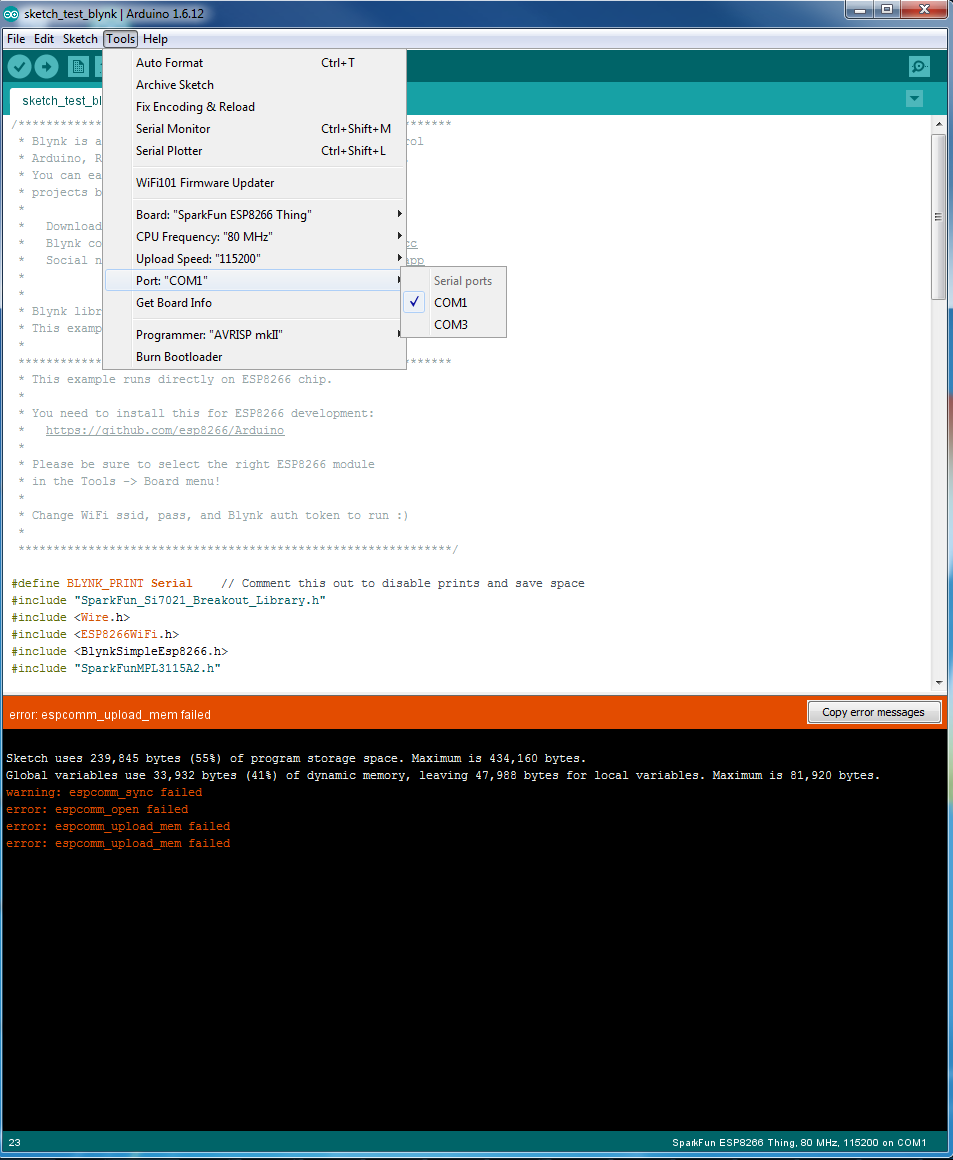
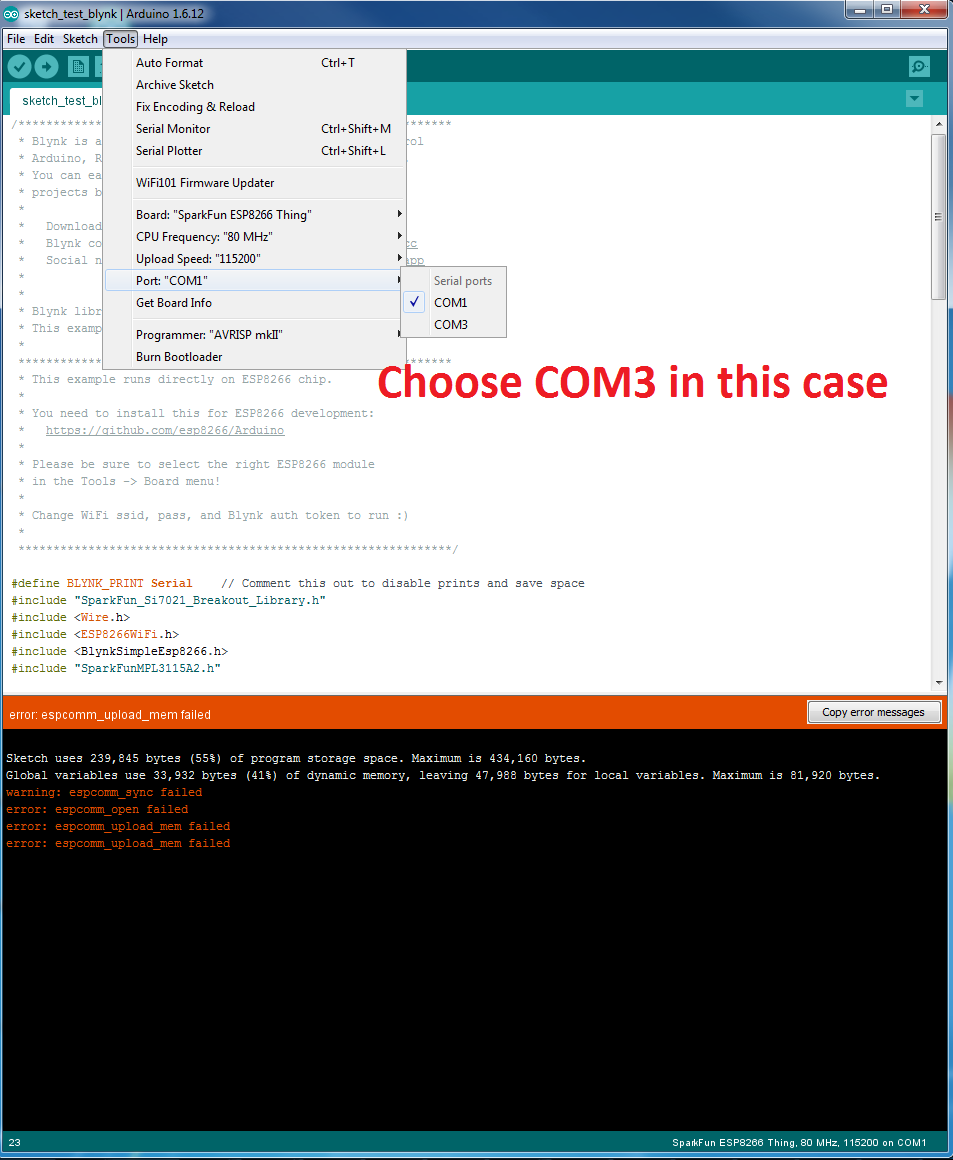
working on iot tutorial

Changed region(s): [[0.3956, 0.3103, 0.9433, 0.3414]]

diff --git a/_pages/teaching/apd_index.html b/_pages/teaching/apd_index.html
@@ -27,7 +27,7 @@ category: course_productdesign
 <b>Tutorials</b><br>
     {% for post in site.posts %}
     {% if post.categories contains 'productdesign_tutorial' %}
-    * {{ post.title }} (<a href="{{ site.url}}/_teaching{{ post.link }}">pdf</a>)<br>
+    * <a href="{{ post.url }}">{{ post.title }}</a><br>
     {% endif %}
     {% endfor %}
 <br>

diff --git a/_posts/teaching/productdesign/2016-11-19-sparkfunthing_tutorial.md b/_posts/teaching/productdesign/2016-11-19-sparkfunthing_tutorial.md
@@ -1,67 +1,90 @@
 ---
 categories: productdesign_tutorial
 layout: apd_default
-title:  Internet of Things Hookup Guideline 1: ESP8266 Thing + Blynk for Dummies 
+title:  Hookup Guideline for ESP8266 Thing and Blynk
 ---
+# Hookup Guideline for ESP8266 Thing and Blynk
 
-* Introduction
-This is a tutorial for people (like me) who have no experience at all at IoT. We will skip a lot 
-of the technical details and focus on moving you from "What is IoT?" to "Oh that's neat!". 
-This tutorial mostly follow the official one [ESP8266 Thing Hookup Guide], but tries to explain 
-a few things skipped.
+## Introduction
 
-* Item list
+This is a tutorial for people (like me) who have no IoT experience **at all**. We will skip a lot 
+of the technical details and focus on moving you from "**Really I can do this?**" to "**Oh that's neat!**". 
+This tutorial mostly follow the official [ESP8266 Thing Hookup Guide][1], but tries to explain 
+a few (dummy) things.
+
+## Item list
+
 To start, you will need the following items prepared. Note that there are enormous 
 hardware/software combinations to get the same thing to work. I will only go through the easiest way.
-1. [The SparkFun ESP8266 Thing board]: "The Thing" combines Arduino Uno and ESP8266 Wifi shield so that 
-you don't have to purchase separate parts and wire them. However, the shortcoming is that it provides
-limited ports (one I^2C and one analog, we will mention these later).
-2. [FTDI Basic -3.3V]: FTDI will be connected to the Thing to physically upload your program to it. Both
-boards run at 3.3V.
-3. [SparkFun Cerberus USB Cable]: The cable charges the Thing and allows communication between your 
-computer and the FTDI.
-4. Jumper Wires and a Breadboard: You will need them to connect FTDI and other chips/sensors of your 
-interest to the Thing.
-5. Arduino stackable header: I use two of these to connect the Thing to the breadboard. 
-6. Solder: You will need to wire chips/sensors before you can use them. So prepare to solder.
-7. A Android/Apple smart phone and a computer. 
 
-* Hardware setup
+1. **The SparkFun ESP8266 Thing board**: "The Thing" combines Arduino Uno and ESP8266 Wifi shield so that 
+you don't have to purchase separate parts and wire them. However, the shortcoming is that it provides
+limited pins.
+2. **FTDI Basic -3.3V**: FTDI will be connected to the Thing to physically upload your program to it. Both
+boards run at 3.3V.
+3. **SparkFun Cerberus USB Cable**: The cable charges the Thing and allows communication between your 
+computer and the FTDI.
+4. **Jumper Wires and a Breadboard**: You will need them to connect FTDI and other chips/sensors of your 
+interest to the Thing.
+5. **Arduino stackable header**: I use two of these to connect the Thing to the breadboard. 
+6. **Solder**: You will need to wire chips/sensors before you can use them. So prepare to solder.
+7. A Android/Apple **smart phone** and a **computer**. 
+
+## Hardware setup
 To test the basic functionality, we will use the following hookup.
 
-* Software setup
+<img src="/_images/tutorial_iot/hookup1.JPG" alt="Drawing" style="height: 400px;"/>
+<img src="/_images/tutorial_iot/hookup2.JPG" alt="Drawing" style="height: 400px;"/>
+
+## Software setup
 The following setup should work for both Windows and Linux.
-1. Download the [Arduino IDE] and install. It's free.
+
+1. Download the [Arduino IDE][2] and install. It's free.
 2. Open the Arduino IDE. Install ESP8266 Arduino Addon: 
-2.1 Go to File > Preference, type the following
-http://arduino.esp8266.com/stable/package_esp8266com_index.json
+  * Go to **File > Preference**, type
+`http://arduino.esp8266.com/stable/package_esp8266com_index.json`
 into the "Additional Board Manager URLs" text box. Hit OK.
-2.2 Then go to Tools > Boards > Boards Manager, search "esp8266", and install it.
-2.3 Go to Tools > Boards, select "ESP8266 Thing". If you don't see it, close and reopen the IDE.
+  * Then go to **Tools > Boards > Boards Manager**, search "esp8266", and install it.
+  * Go to **Tools > Boards**, select "ESP8266 Thing". If you don't see it, close and reopen the IDE.
 3. On your smart phone, install "Blynk" and register. It's free.
 
-* Case study
-Before you move forward, please go through the cases from [ESP8266 Thing Hookup Guide] to see
+## Validation
+Before you move forward, I strongly recommend you to go through the cases 
+from [the official guideline][1] to see
 if your setup is all correct.
 
 **Hint**: If you encounter the error: "warning: espcomm_sync failed...", there could be three reasons:
-First, check if the Thing is turned on! Secondly, check Tools>Port to see which serial port you are using. Remember that both the Thing and the FTDI
-are hooked up through USB, the one we should use is the USB Serial Port rather than Communications Port.
-To find the right port, go to Device Manager (on Windows, it's under Control Panel>System and 
-Security>System) and check "Ports". See figure below. The third reason could be that your soldering is
-not done well. Sometimes this problem disappears when you re-upload, if your Port is chosen correctly.
 
+1. Check if the Thing is turned on! The switch is on one corner of the board. You should 
+see a red light on once the board is turned on.
+2. In the IDE, check **Tools>Port** to see which serial port you are using. 
+Remember that both the Thing and the FTDI
+are hooked up through USB, the one we should use is the USB Serial Port rather than Communications Port.
+To find the right port, go to Device Manager (on Windows, it's under **Control Panel>System and 
+Security>System**) and check "**Ports**". See figure below.
+<img src="/_images/tutorial_iot/port.png" alt="Drawing" style="height: 400px;"/>
+<img src="/_images/tutorial_iot/port2.png" alt="Drawing" style="height: 400px;"/>
+<!--![Alt text](/_images/tutorial_iot/port.png)-->
+<!--![Alt text](/_images/tutorial_iot/port2.png)-->
+
+3. It could be that your soldering is not well done. 
+
+In addition, sometimes this problem disappears when you re-upload, if your Port is chosen correctly.
+
+## Case study
 Now assume that you had fun with those cases, below we go through the simple setup to read from a 
 pressure sensor (data from board to phone) and to control the on-board LED (data from phone to board).
 
-** Hardware configuration
-The pressure sensor we use (MPL3115A2) is a I^2C device: The four pins useful to us are "GND" (ground),
+### Hardware configuration
+The pressure sensor (MPL3115A2) has four pins: "GND" (ground),
 "3V3" (3.3V power), SDA (signal - data), and SCL (signal - clock). You need to solder wires to these 
 pins, and connect them to the corresponding pins on the Thing. See figure.
+<img src="/_images/tutorial_iot/pressure.JPG" alt="Drawing" style="height: 400px;"/>
 
-** Coding and testing
-1. Open a new Arduino sketch, compile and upload the following code:
+### Arduino Sketch
+In Arduino IDE, open a new sketch, compile and upload the following code:
 
+{% highlight C %}
 #define BLYNK_PRINT Serial    // Comment this out to disable prints and save space
 #include <Wire.h>
 #include <ESP8266WiFi.h>
@@ -110,19 +133,25 @@ void getPressure()
   Blynk.virtualWrite(0, tempf);
   Blynk.virtualWrite(1, pressure);
 }
+{% endhighlight %}
 
-2. In your Blynk App, create a new project and create the following
-2.1 A button: Set output of the button to "Digital - GP5", this particular pin correspond to the LED on the Thing board.
+### Blynk setup
+In Blynk, create a new project and create the following
+
+* A **button**: Set output of the button to "Digital - GP5", this particular pin correspond to the LED on the Thing board.
  If you look close enough, you can see "5" next to the LED on the board.
-2.2 Two value displays: Set the inputs to "Virtual - V0" and "Virtual - V1", respectively. If necessary, you can also
+* Two **value displays**: Set the inputs to "Virtual - V0" and "Virtual - V1", respectively. If necessary, you can also
 come back to fine tune the value range.
+<img src="/_images/tutorial_iot/blynkinterface.png" alt="Drawing" style="height: 400px;"/>
+<img src="/_images/tutorial_iot/button.png" alt="Drawing" style="height: 400px;"/>
+<img src="/_images/tutorial_iot/display.png" alt="Drawing" style="height: 400px;"/>
 
-That's about it. Now turn on the Thing and hit the run button on Blynk. You should be able to (1) see the current room
+That's about it! Now turn on the Thing and hit the run button on Blynk. You should be able to (1) see the current room
 temprature (give it some time to converge) and the pressure, and (2) turn on the LED by clicking the button in Blynk.
 
 **Hint**: Sometimes the Blynk server can be slow, or even unavailable. You can turn the Thing off and on to get back
 wifi connection.
 
 
-[ESP8266 Thing Hookup Guide] https://learn.sparkfun.com/tutorials/esp8266-thing-hookup-guide/introduction
-[Arduino IDE] https://www.arduino.cc/en/Main/Software
+[1]: https://learn.sparkfun.com/tutorials/esp8266-thing-hookup-guide/introduction
+[2]: https://www.arduino.cc/en/Main/Software
